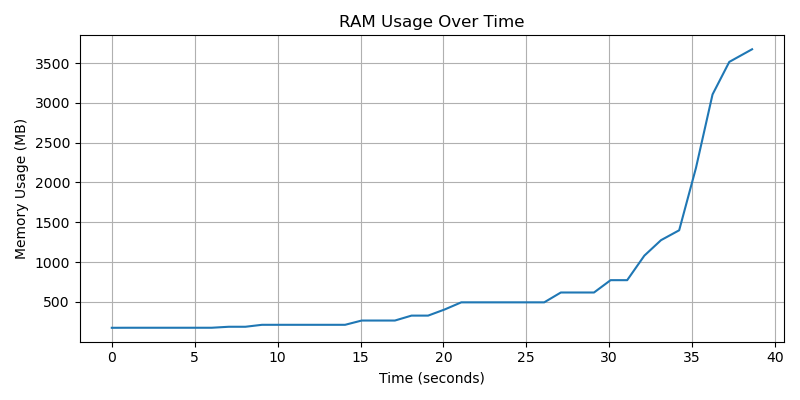
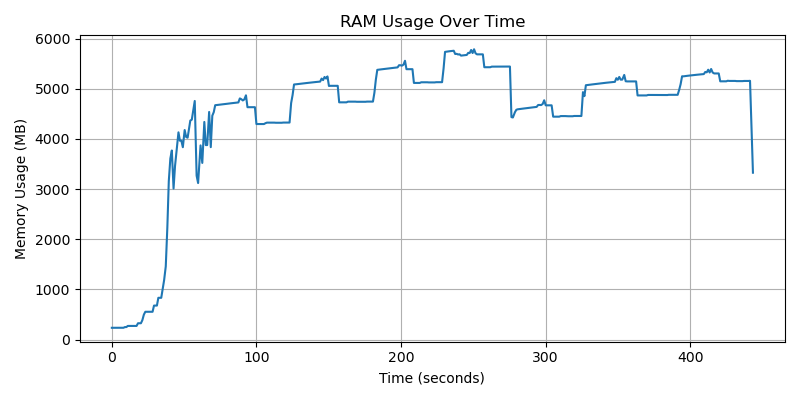
Adjust code & Docker

diff --git a/bike_rent.py b/bike_rent.py
@@ -60,6 +60,8 @@ def main():
         out_path = os.path.join(output_dir, f"clusters_{day_name}.png")
         plot_clusters_with_map(day_df, centers, day_name, out_path)
 
+    print("Clusterisation for each day complete")
+
     plot_stat_by_day(weekday_stats, 'avg_duration', 'Average Duration (min)', 'avg_duration_by_day.png')
     plot_stat_by_day(weekday_stats, 'avg_distance', 'Average Distance (km)', 'avg_distance_by_day.png')
     plot_stat_by_day(weekday_stats, 'trip_count', 'Trip Count', 'trip_count_by_day.png', agg_func='value')

diff --git a/functions.py b/functions.py
@@ -4,17 +4,15 @@ import psutil
 import threading
 import pandas as pd
 import numpy as np
-import matplotlib.pyplot as plt
-import seaborn as sns
 from math import radians, sin, cos, sqrt, atan2
 from multiprocessing import Pool
+
+import matplotlib.pyplot as plt
+import seaborn as sns
+
 import geopandas as gpd
 import contextily as ctx
 from sklearn.cluster import KMeans
-import seaborn as sns
-import matplotlib.pyplot as plt
-from multiprocessing import Pool
-
 
 NUM_CORES = 11
 
